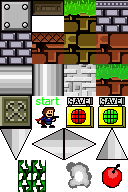
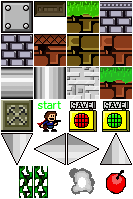
解决对象层的黑线问题

diff --git a/assets/resources/tiled/iwbt/tiles.tsx b/assets/resources/tiled/iwbt/tiles.tsx
@@ -1,6 +1,6 @@
 <?xml version="1.0" encoding="UTF-8"?>
-<tileset version="1.5" tiledversion="1.7.2" name="tiles" tilewidth="32" tileheight="32" tilecount="24" columns="4">
- <image source="tiles.png" width="128" height="192"/>
+<tileset version="1.5" tiledversion="1.7.2" name="tiles" tilewidth="32" tileheight="32" spacing="1" margin="1" tilecount="24" columns="4">
+ <image source="tiles.png" width="133" height="199"/>
  <tile id="0">
   <properties>
    <property name="customType" value="block"/>
